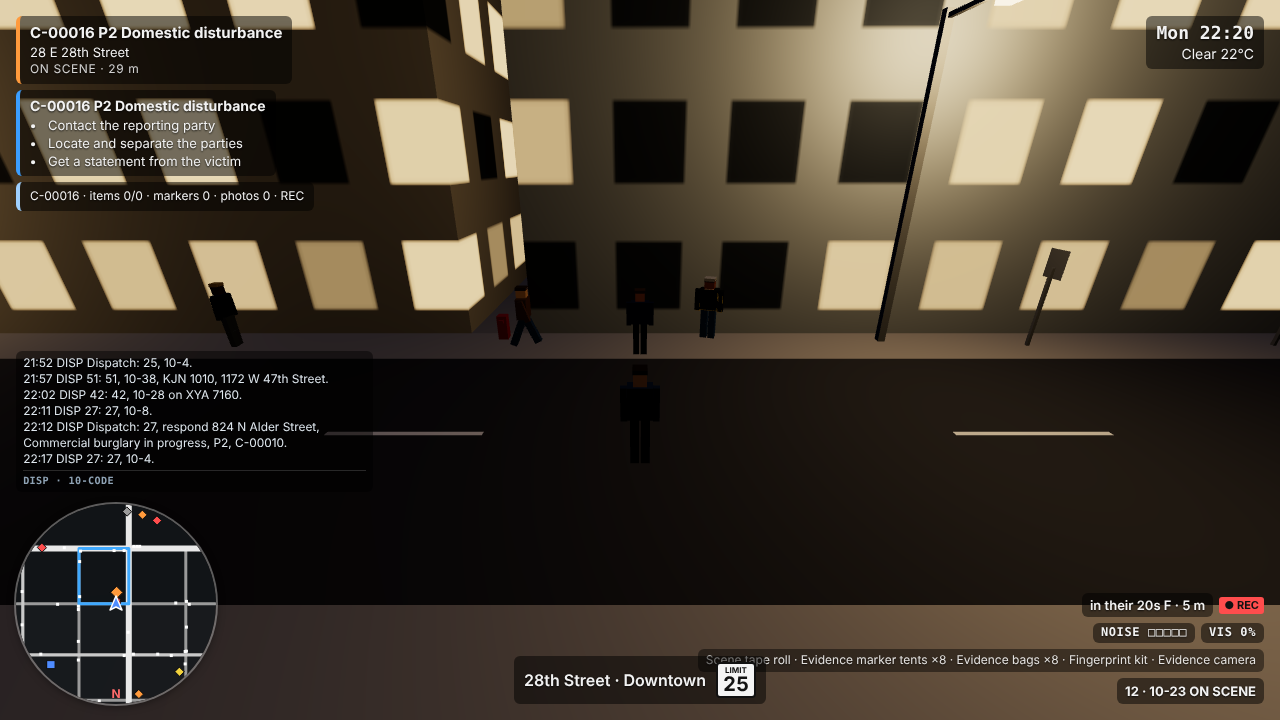
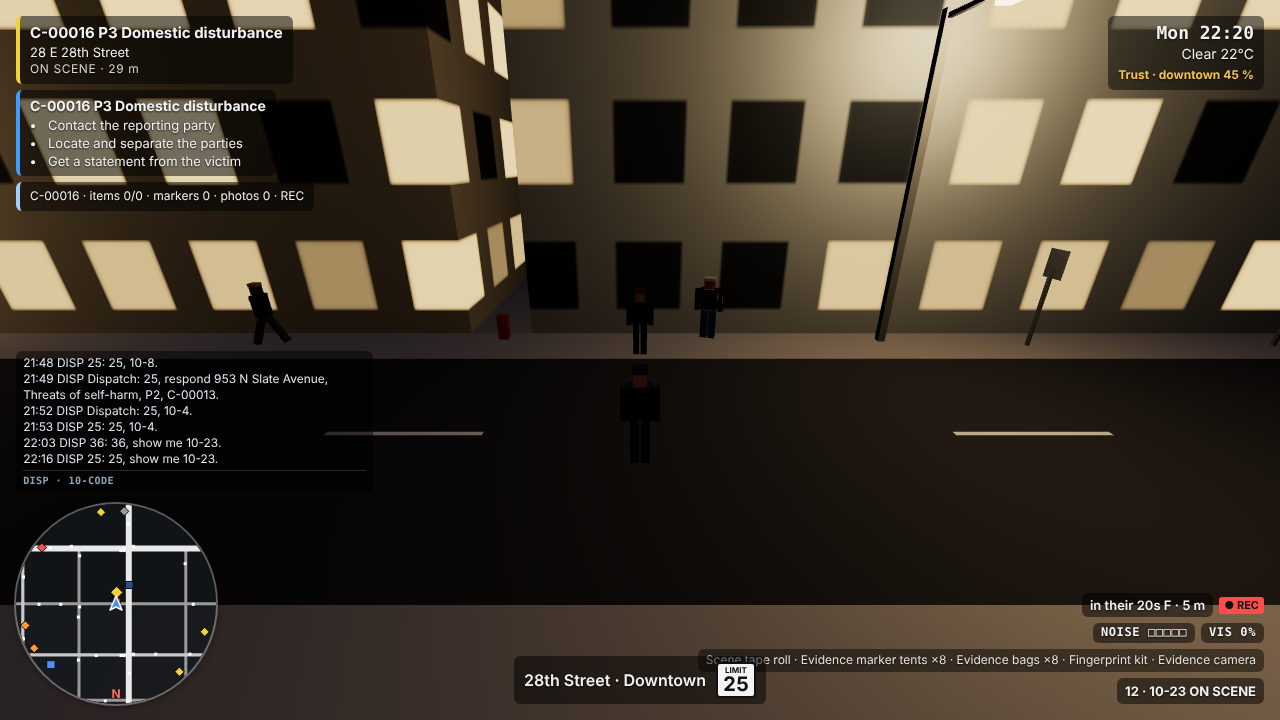
WIP Phase 5: check green, smoke fixes

diff --git a/docs/PHASES.md b/docs/PHASES.md
@@ -343,3 +343,75 @@ X, Q, R, F and the right mouse button keep their driving meaning (equipment pane
 - A new shift carries a field kit (8 markers, 8 bags, the camera, the dust kit, a tape roll); the ram stays in the trunk (the trunk panel moves items).
 - Under software GL (SwiftShader) the game runs at about 1-5 fps; on a real GPU it runs at the display rate.
 - Integration fixes outside the integrator's own files: `InteriorSystem.leaveBuilding`, `residentPerson` (indoors), `SceneDirector.ownsBuilding` / `addWitness` / a forced building for `spawnCall` (scene), `test/input/input.test.ts` (the example unbound key `KeyU` is the bodycam now; `F5`), `test/save/*` and `test/game/*` adapted to v6 (the Phase 1-3 game tests run with `indoorScenes: false` and start outdoors, `Harness.start(seed, inStation)`).
+
+## Phase 5 — Law, Procedure, Consequences
+
+Status: ✅ complete. Screenshots (taken by the smoke test): `docs/screenshots/phase5-mdt.png` (the MDT Career tab), `docs/screenshots/phase5-court.png` (the courtroom) and `docs/screenshots/phase5-review.png` (the evidence review of an internal-affairs case). Design and module contracts: `docs/phase5-design.md`.
+
+### Completed
+- ✅ **Jurisdiction-aware legal engine** (`legal/`, `data/legal/rulesets/*.json`, pure, no other module): `evaluateIncident(log, ruleset)` judges an incident's structured event log against a JSON ruleset (`generic` generic state law, `strict` proves the swap; 34 rules, 26 indicators, 9 offenses each; a new `<id>.json` in the folder is picked up automatically). Reasonable suspicion and probable cause from weighted indicators, Terry stops and frisks (scope, plain feel), search incident to arrest (time window, vehicle rule), the automobile exception, consent (validity, scope, coercion), exigency and premises entry, Miranda / custodial interrogation (warning, waiver, invocation), breath and sobriety tests, the use-of-force continuum and justification, the duty to intervene, pursuit policy, recording policy (bodycam activation and muting) and **evidence admissibility with the fruit-of-the-poisonous-tree chain** (attenuation, independent source, inevitable discovery). Every determination cites ruleset rule ids that `citation()` renders as generic citations ("GS-4.1 Gen. Crim. Proc. § 4.1 — Search incident to arrest").
+- ✅ **Structured event log built from the Phase 2-4 events** (`incidents/`, `data/incidents/mapping.json`): observations, lookups, statements, questions, consents, frisks, searches, seizures, tests, arrests, force, pursuits (1 Hz samples), entries and camera state, every event with body / muted / dash camera bits; field contacts get their own logs and merge into the call's log; capped at 600 events per log, 24 closed logs kept.
+- ✅ **Use of force** (`force/`, `data/force/force.json`): hands, OC spray, baton, TASER (2 cartridges, probe spread and hit model, clothing and cold, 5 s cycles, cycle limit, risk factors: elderly, pregnant, elevated position, running, restrained, juvenile), K9 apprehension, less-lethal launcher, firearm (aim along the camera, hit zones, NPC injury and death); tools need their armory item signed out and ammo (refilled on sign-out). Every application records the subject's resistance level (compliant ... lethal, from the NPC's behaviour) and is scored at once (HUD line "TASER on assaultive resistance: within policy (GS-8.1)") and again in the assessment. The partner placeholder can strike a restrained subject; **H** intervenes.
+- ✅ **Reports graded** (`conduct/report.ts`, MDT statements checklist): the report form lists true facts, plausible false facts and conclusions (the truth is never sent to the UI); the grade counts completeness, contradictions (heavier when the bodycam recorded the truth) and unsupported claims.
+- ✅ **Bad stops and searches have consequences**: suppressed evidence weakens the case, an unlawful-arrest motion dismisses it (court), and a dismissal for misconduct costs trust and credibility.
+- ✅ **Internal affairs, discipline, commendations** (`conduct/`, `ui/ia`, `ui/review`): data-rule triggers (excessive force, doctrine violations, injury after arrest, complaints), a case with the **evidence review** (bodycam timeline: scrubber, REC / MUTED / DASH strip, events, snapshots), the officer's statement from the review footer (an untruthful account of on-camera force is sustained), findings and discipline (counselling, reprimand, suspension that puts the unit out of service, termination, civil suit, criminal charges); commendations for good policing.
+- ✅ **Community trust per district** (11 districts, persisted, MDT *Community* tab, HUD chip): deltas from lawful and unlawful conduct, a spill to the other districts and drift back to the baselines; it feeds NPC cooperation (dialogue), tip quality (dispatch-error scale), hostile onlookers at arrests and force, and the call generator's crime factor.
+- ✅ **Court** (`court/`, `ui/court`): every final booking or citation opens a case (pleas rolled), a hearing is scheduled on the game clock with a subpoena (radio, HUD line, MDT *Career* calendar), the officer attends in a window around it; the courtroom shows the judge's rulings on the motions, then a cross-examination built from the report choices and the event log (yes / no / don't recall), scores contradictions (with the log, the report, themselves, the camera), decides the verdict and moves credibility, trust and discipline.
+- ✅ **Bodycam and dashcam recording** (`recording/`): the camera bits ride on the event stream; the bodycam (U) and a mute key (J) are judged by the ruleset's recording policy; 160x90 JPEG snapshots of the live canvas every 3 sim seconds while recording (and at once after force or a booking) go to IndexedDB `patrol-media` with caps (3 000 snapshots, 16 MiB, 200 per incident) and retention (pruned against the incidents still referenced); playback in the evidence review.
+- ✅ **Save schema v7** (`save/`): `force`, `incidents` (jurisdiction, open + closed logs, camera state, pursuit sampler), `conduct` (trust, duty, credibility, commendations, discipline, IA cases, report grades, stats) and `court` (cases, calendar) with a tested v6 → v7 migration (default blocks on the seed's own streams); every older version still migrates; each malformed block is rejected. Snapshot blobs live in IndexedDB under migration-safe keys (`tag:incident:sim:source`), the tag is remembered per save slot. **The schema is frozen after this phase.**
+- ✅ **Console**: `law ruleset [id]`, `law explain [incident]`, `law list`, `jurisdiction`, `legal`, `incident list|show|close`, `force test|tool|stats`, `court next|list|advance|attend`, `ia list|show|review|statement`, `trust [district [delta]]`, `career`, `cam mute|dash|status`, `media stats|clear|prune`.
+- ✅ **Determinism**: a scripted stop (a speeding car seen before the lights, bodycam on, odor, consent PBT, the driver fights, a TASER application, cuffs, rights, a question in custody, a booking that opens a court case, the call cleared) replays to bit-identical v7 saves; a v7 save made mid-incident continues exactly (force, incidents, conduct, court, CAD, people); a v6 save loads (incidents empty, trust at its baselines) and a stop played on it closes an incident (`test/game/phase5.test.ts`). The legal engine has 235 unit tests driven by the JSON rulesets (suspicion, Terry stop and frisk scope, searches, consent, exigency, Miranda, force and the duty to intervene, pursuit policy, recording, evidence and taint, report grading, a 0.4 ms / 600-event performance test), conduct 100+ (trust math, IA triggers, discipline ladder, commendations), the court 155 (cross-examination generation, testimony scoring, motion rulings, verdicts).
+- ✅ **End-to-end flows verified in the real game** (`npm run smoke`, real keys and mouse where they exist): **C** cycles to the TASER (HUD chip `TASER 2/2`), a speeding car pulled over with the bodycam on, ID, odor and a consent PBT, the driver steps out and fights, **left mouse** fires the TASER and the HUD shows the verdict, arrest and booking (two cases: a plea and a scheduled hearing), `law explain` with citations, the MDT report form with the statements checklist graded, the Career and Community tabs, **the courtroom answered with Enter / 1** to a verdict, an unlawful frisk and an excessive TASER on a bystander that open an IA case, bodycam snapshots taken from the live canvas, the evidence review with the statement footer, a v7 save and load, the console commands.
+- ✅ NUMBER_OF_TESTS unit and integration tests (NUMBER_OF_FILES files) pass under `npm run check`.
+- ✅ No third-party assets, no new dependencies; `docs/ASSETS.md` stays empty.
+
+### How to run
+```
+npm install
+npm run dev        # http://localhost:5173
+npm run check      # tsc + eslint + vitest (NUMBER_OF_TESTS tests)
+npm run build      # production bundle in dist/
+npm run smoke      # headless browser test (Phases 0-5) + docs/screenshots/phase1*.png ... phase5*.png
+```
+
+### Controls (Phase 5 additions)
+| | Keyboard / mouse | Gamepad |
+|---|---|---|
+| Cycle the force tool (hands, OC spray, baton, TASER, less-lethal launcher, sidearm, K9; only what the armory log, ammo and the scene allow) | C | Start |
+| Apply the selected tool along the camera aim | left mouse | RT |
+| Intervene when your partner abuses a restrained subject · mute / unmute the bodycam (on foot) | H · J | - |
+| Switch the light bar off during a vehicle pursuit: ends the pursuit (the supervisor advises it when it is unjustified) | L | X |
+| Career tab (calendar, cases, IA, discipline, reports) · Community tab | MDT, **0** · MDT, right arrow | |
+| Courtroom: begin · yes / no / don't recall · previous · submit | Enter · 1 / 2 / 3 · Backspace · Enter | |
+| Evidence review: play / pause · 1 s (Shift 10 s) · event · IA statement option | Space · ← → · ↑ ↓ · 1-9 | |
+
+The main menu has a **Jurisdiction** select (generic or strict state law); `law ruleset <id>` switches it in game. Every action can be rebound under *Settings > Controls*.
+
+### Manual test checklist
+1. New game, seed `42`. Sign out the pistol and TASER at the armory (or `shift garage`), leave in a patrol car. Press **U** (bodycam on). Light a car (**L**) until it pulls over, talk to the driver (**E**): ID, *Have you had anything to drink*, *consent to a breath test*, *Step out*.
+2. Press **C** until the HUD shows `TASER 2/2`, aim at the driver (use `npc spawn flee`/the scene `fight` state or `force tool taser` + an aggressive subject), left mouse: probes attach, the HUD line reads `TASER on assaultive resistance: within policy (GS-8.1)`. Try the same on a compliant bystander: `... excessive (GS-8.1)`.
+3. Cuff, read the rights (*Rights* topic), ask a question, book the person at the station (MDT, Reports): the MDT *Career* tab lists the case; `court next` shows the hearing, `court advance <id>` brings it to now, **ATTEND** in the Career tab (or `court attend <id>`) opens the courtroom: **Enter**, answer with **1 / 2 / 3**, **Enter**. The verdict, credibility and trust change (`career`, `trust`).
+4. `law explain` lists every determination with its citation; `law ruleset strict` re-judges the open incidents under the strict ruleset. Write the incident report in the MDT: tick the statements of fact (the unsupported ones are marked down) and finalize; the grade shows in the document.
+5. Force on someone compliant, or an unlawful frisk, then close the incident (clear the call, or `incident close <key>`): an IA case appears on the Career tab and on the radio; **REVIEW** opens the evidence review (snapshots need the bodycam on and a WebGL canvas), **1-9** give a statement, **Esc** closes it; `ia list`, `career`.
+6. **Esc** > *Quick save*, quit, load: incident logs, cases, IA cases, report grades, trust and the camera state are back; a v6 save loads with empty incidents and baseline trust.
+7. Console: `jurisdiction`, `incident list`, `force stats`, `cam mute on`, `media stats`.
+
+### Performance
+- Node (seed 4242, a whole session, 1200 fixed steps after a 120-step warm-up): PERF_NODE.
+- Legal assessment: ~0.4 ms for a 600-event log (CI asserts < 2 ms); the recorder, conduct and court steps read 0.0 ms in the smoke perf overlay (event-driven; per-game-minute work only); the force step is idle-free of allocations.
+- Snapshots: one 160x90 `drawImage` + async `toBlob` per 3 sim seconds of recording (~2-4 KiB each), IndexedDB writes off the frame; the HUD additions are DOM writes on change at the 10 Hz HUD rate.
+- Headless Chromium with SwiftShader (1280x720, software GL, ~2 fps, so these are draw-call and sim counts, not frame rates): PERF_BROWSER.
+- Save size: a v7 save with two logs (22 and 5 events), two cases and one IA case adds a few KiB; the worst case (24 closed logs x 600 events) stays below 1.5 MiB.
+
+### Known limitations
+- The legal model is a simplified, generic teaching model, not legal advice; rule citations are invented.
+- Report narratives are free text and not parsed; grading uses the statements checklist.
+- Snapshots come from the rendered game view (the dashcam is the same view while the officer is in the car); no video or audio is stored; media lives in the browser's IndexedDB and is not part of the save slot (clearing site data loses the footage but not the event log, and the review then says NO VIDEO).
+- The courtroom hearing takes place off-clock (no sim time passes) and there is no courthouse building.
+- The only fellow officer who can misbehave is the partner placeholder; AI units on scene do not use force.
+- Pregnancy and elevated position are derived risk factors (hash / room kind) and are not visible on the figure.
+- Pursuits are judged on the officer's own speed and equipment; bystander risk and the fleeing car's driving are not modelled.
+- A field contact's log closes when the contact ends: a force application right after closing the dialogue opens a separate ad hoc log (`FI-`), so keep the contact open (or work under a call) when the whole sequence should be one incident.
+- A booking made from the MDT away from the station needs the prisoner caged and the officer at the station (Phase 3 rule); the smoke test files its bookings through the CAD document store.
+- Under software GL (SwiftShader) the game runs at about 1-5 fps; on a real GPU it runs at the display rate. Headless Chromium never grants pointer lock, so the smoke test switches it off for its one real click.
+- Integration fixes outside the integrator's own files: `ContactManager.activeIncident`, `SceneDirector.callOfBuilding`, `IncidentSystem.followCall` (and the playerCall / dash bit re-derivation on restore), `src/incidents/index.ts`, `test/game/phase3.test.ts` (trust is restored before the DUI stop: closing the domestic now moves community trust), `test/game/phase4.test.ts` and `test/game/session.test.ts` (v7 blocks, the new systems).
